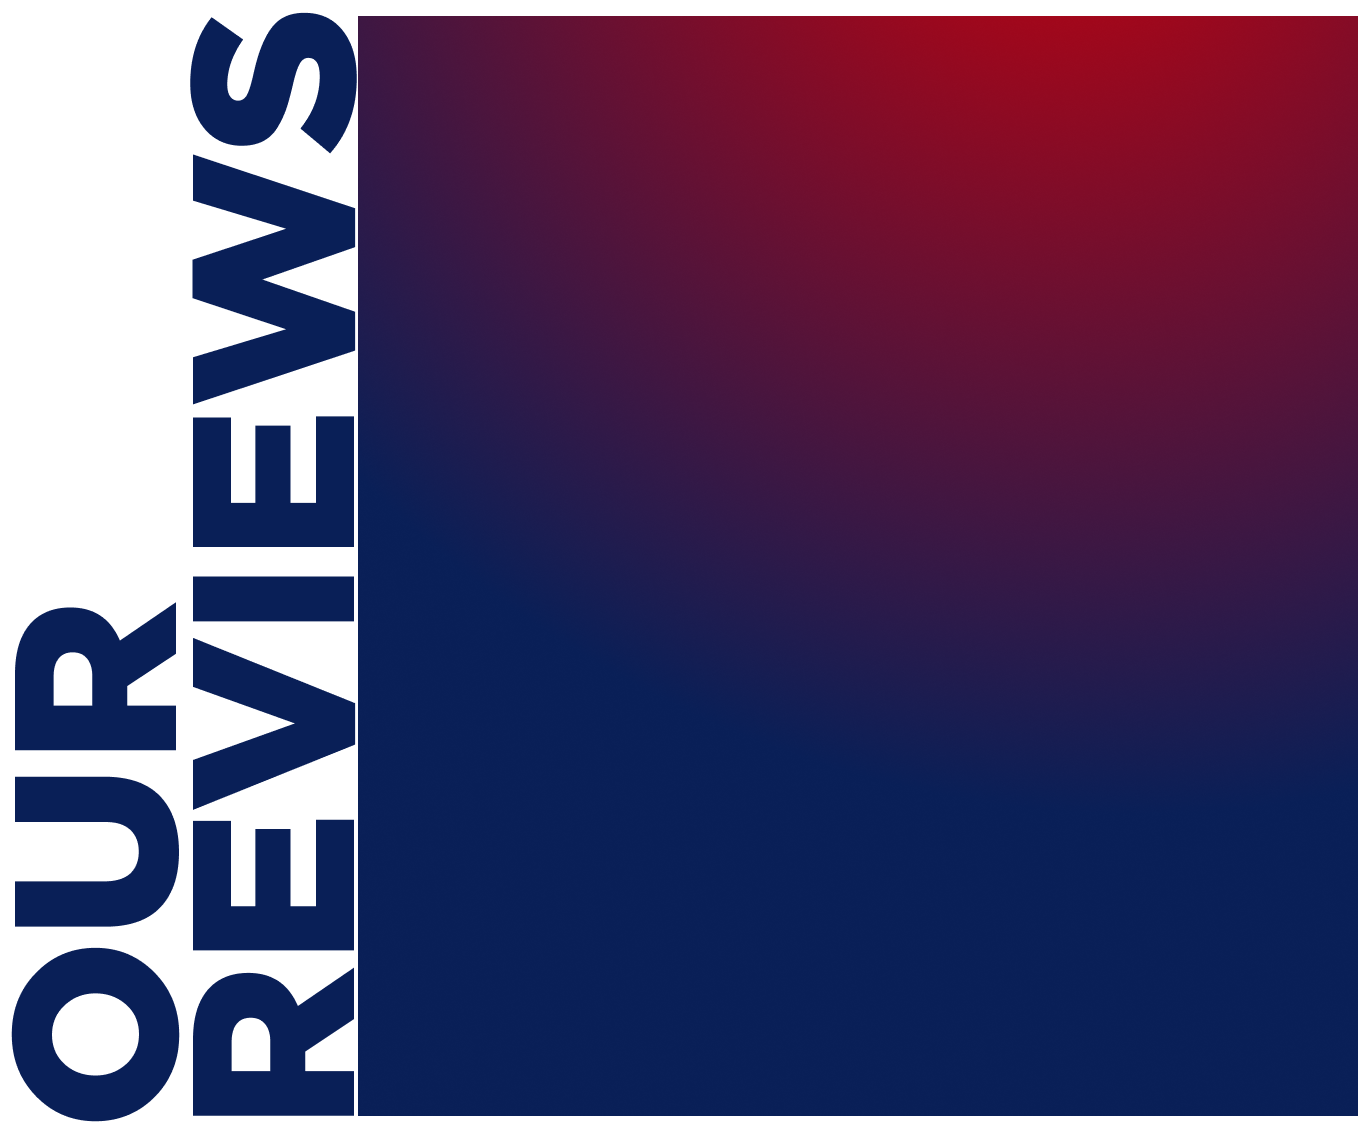
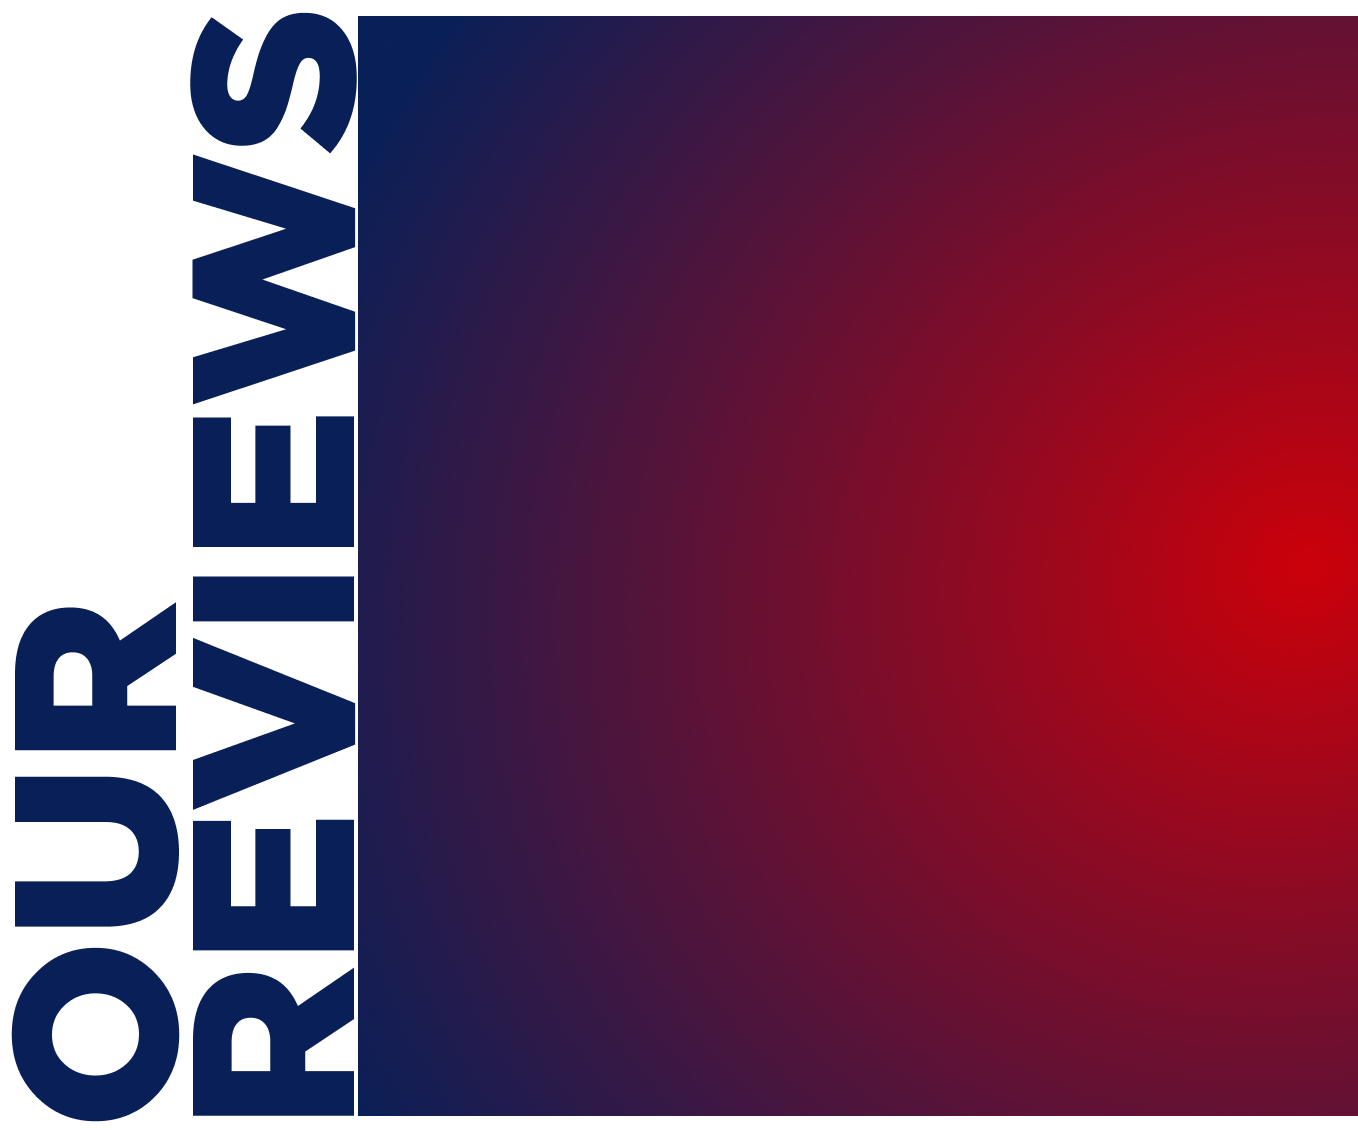
Dep commit

diff --git a/src/assets/styles/index.css b/src/assets/styles/index.css
@@ -1397,6 +1397,9 @@ code {
   }
 }
 @media screen and (max-width: 450px) {
+  .dis_form_container {
+    background: radial-gradient(circle at 75% 120%, #cb000a 20%, #091f57 80%);
+  }
   .dis_quest_block {
     width: 100vw;
     white-space: nowrap;
@@ -1443,9 +1446,11 @@ code {
     background: radial-gradient(circle at 75% 140%, #cb000a 20%, #091f57 80%);
   }
   .Head_text {
+    overflow: hidden;
+    margin-left: 3%;
     margin-top: 10px;
     margin-bottom: 150px;
-    font-size: 0.95em;
+    font-size: 0.9em;
     width: 100vw;
   }
   .photo {

diff --git a/src/assets/styles/footer.css b/src/assets/styles/footer.css
@@ -152,6 +152,7 @@
   .footer_block {
     flex-direction: column-reverse;
     padding: 50px 0;
+    background: radial-gradient(circle at 20% -30%, #cb000a 20%, #091f57 80%);
   }
   .footer_icons {
     width: 100vw;
